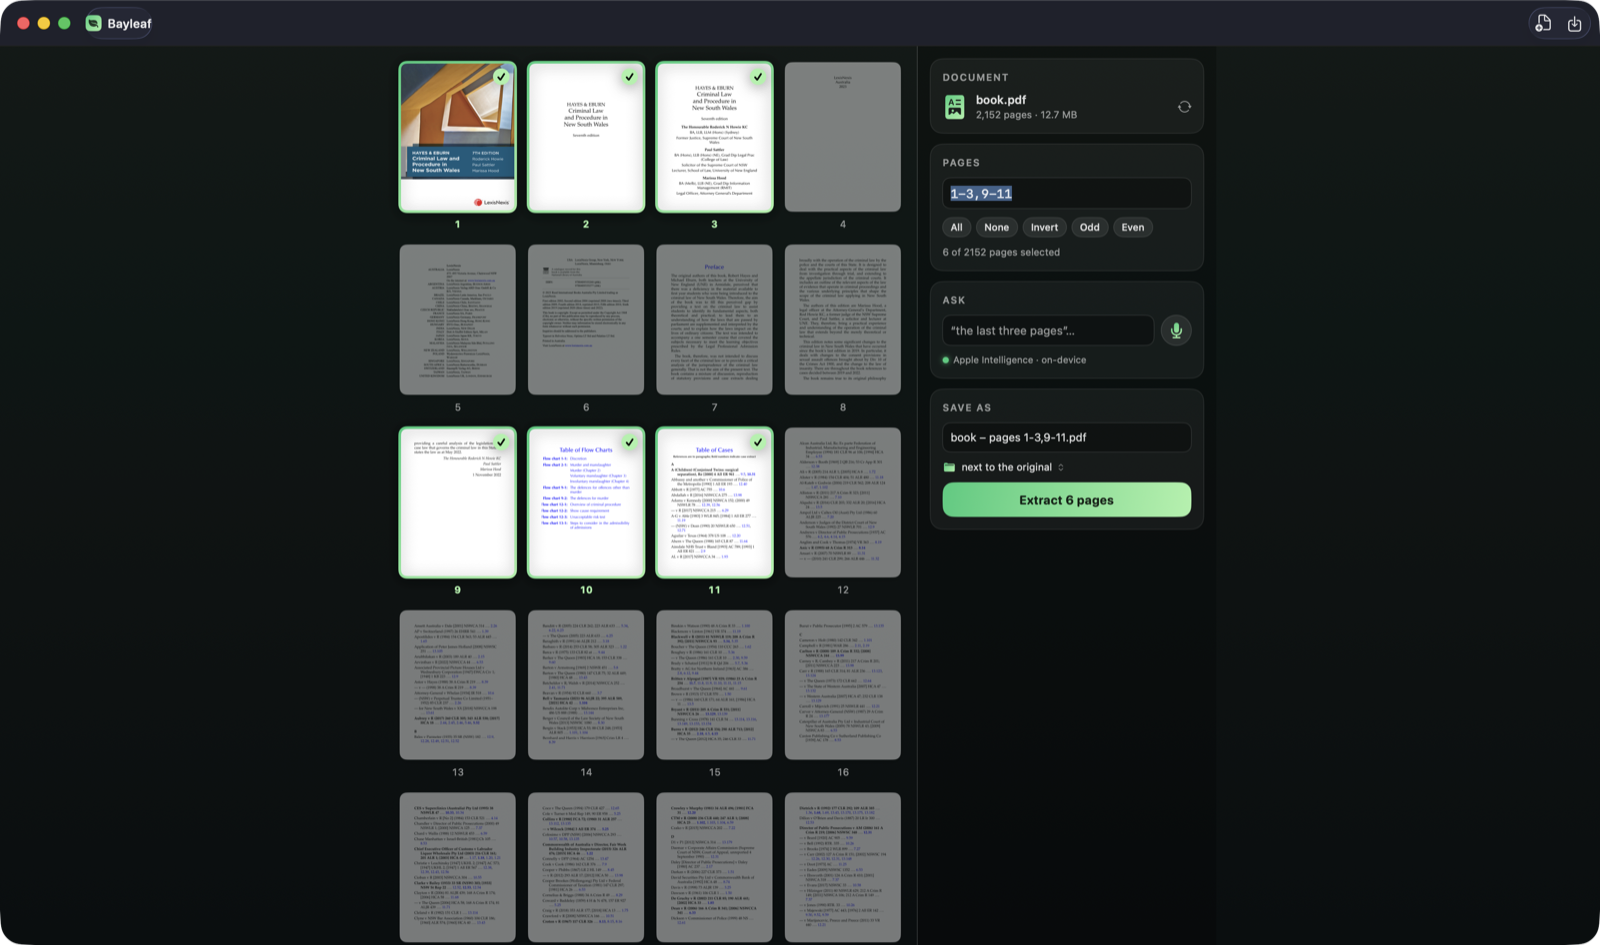
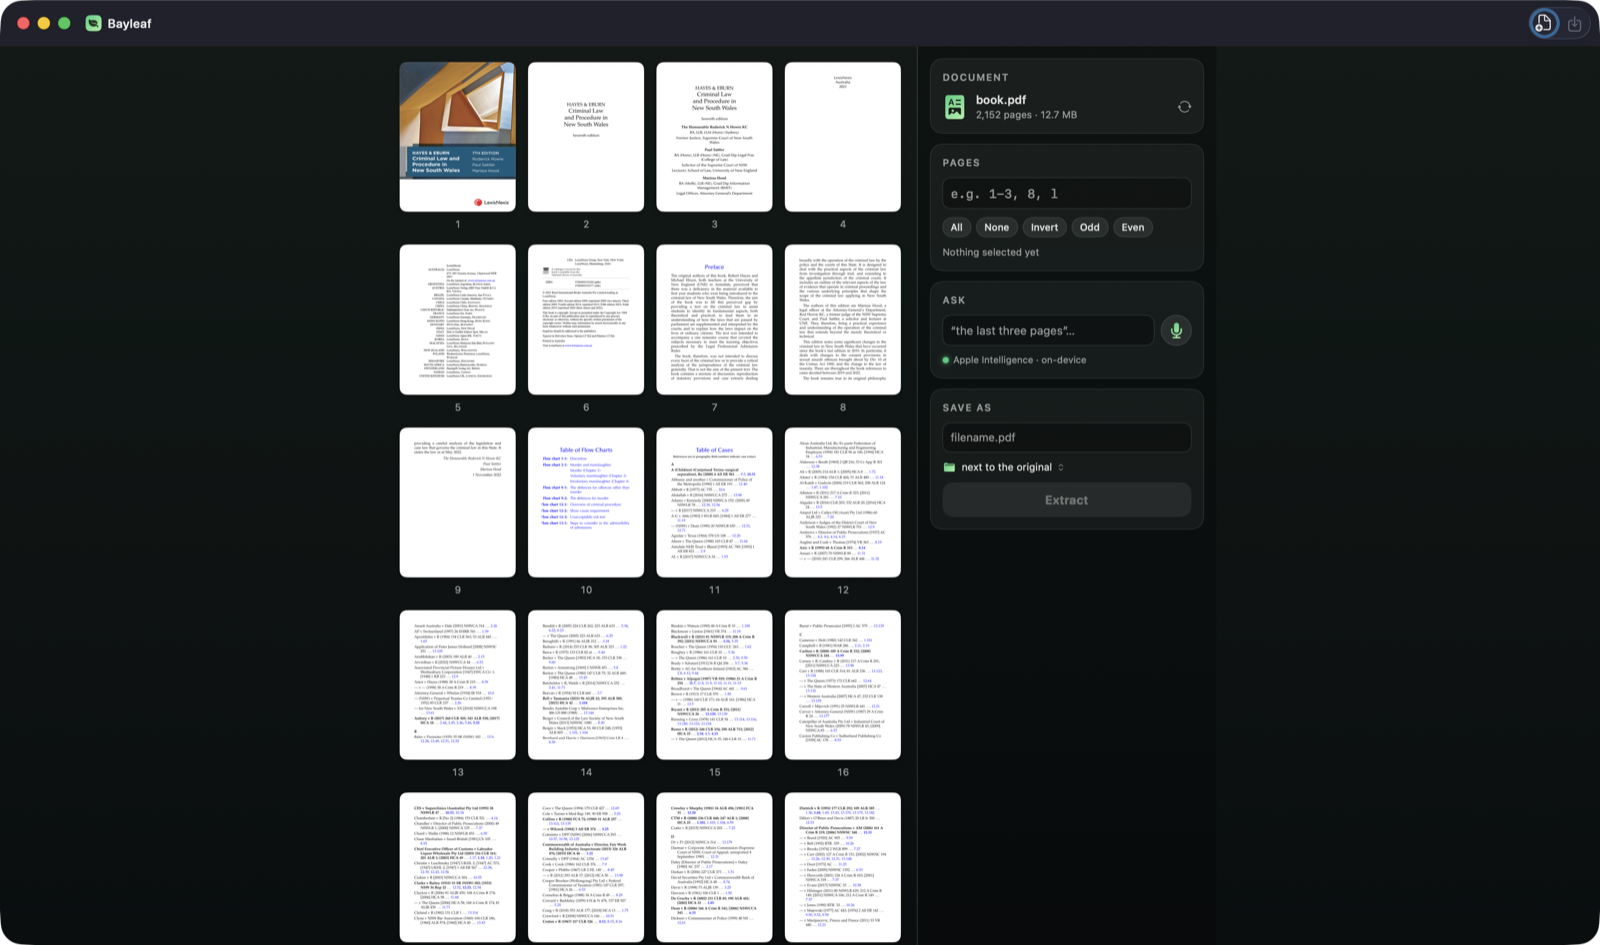
Drop the Liquid Glass capsule from the brand toolbar item
macOS 26 gives every toolbar item a glass capsule sized for a standard
control, so the custom logo+label stack spilled out of its own pill.
The brand is a label, not a control, so it takes no background —
matching Mud, whose title is plain text while only its buttons get
capsules. The Open and Extract buttons keep theirs.

diff --git a/Sources/Bayleaf/BayleafApp.swift b/Sources/Bayleaf/BayleafApp.swift
@@ -28,6 +28,11 @@ struct BayleafApp: App {
                     .font(.system(size: 14, weight: .semibold, design: .rounded))
             }
         }
+        // macOS 26 wraps every toolbar item in a Liquid Glass capsule, sized for a
+        // standard control — a custom icon+label stack spills out of it. The brand is
+        // a label, not a control, so it gets no background at all, which is what Mud's
+        // title does too. The buttons below keep theirs, because they ARE controls.
+        .sharedBackgroundVisibility(.hidden)
         // With the window title hidden there is no flexible gap in the middle of
         // the toolbar, so .primaryAction items sit next to the brand instead of at
         // the trailing edge. An explicit flexible spacer restores the split.
